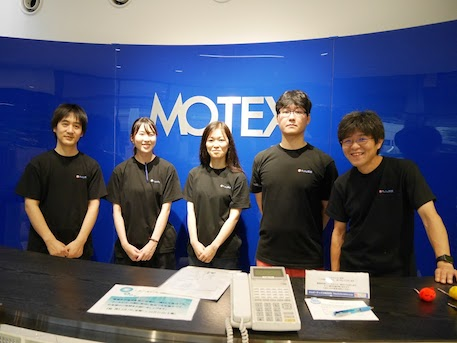
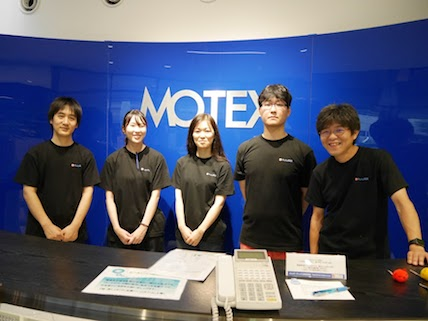
Add novelty to report

diff --git a/report/index.md b/report/index.md
@@ -131,3 +131,5 @@ title:  Report
 ![P1030889]({{ site.baseurl }}/assets/img/report/P1030889.JPG)
 ![P1030891]({{ site.baseurl }}/assets/img/report/P1030891.JPG)
 ![P1030892]({{ site.baseurl }}/assets/img/report/P1030892.JPG)
+
+![novelty]({{ site.baseurl }}/assets/img/report/novelty.jpg)
